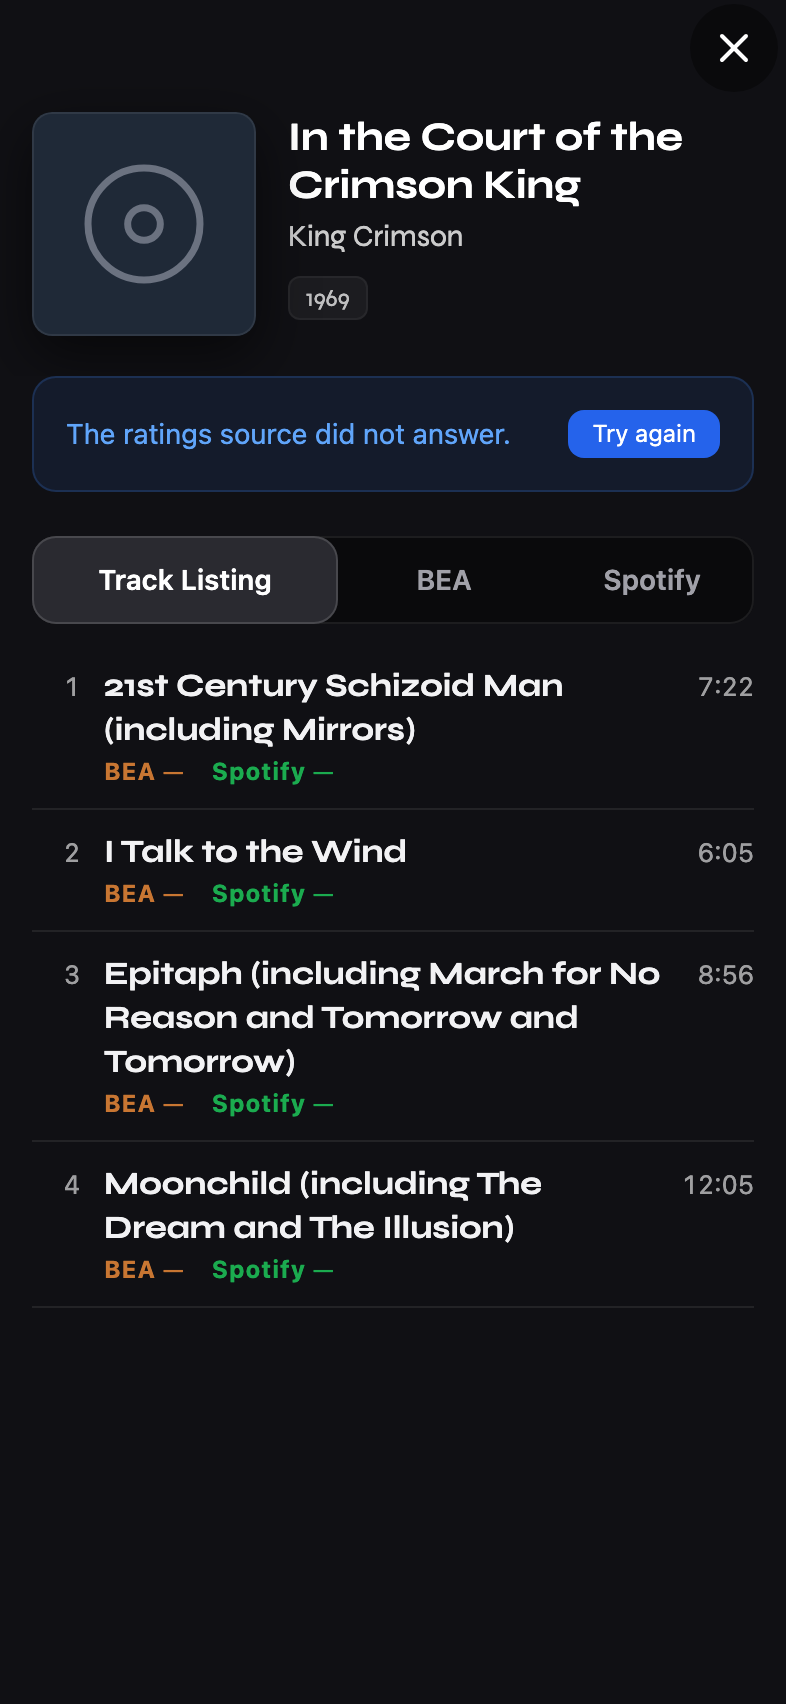
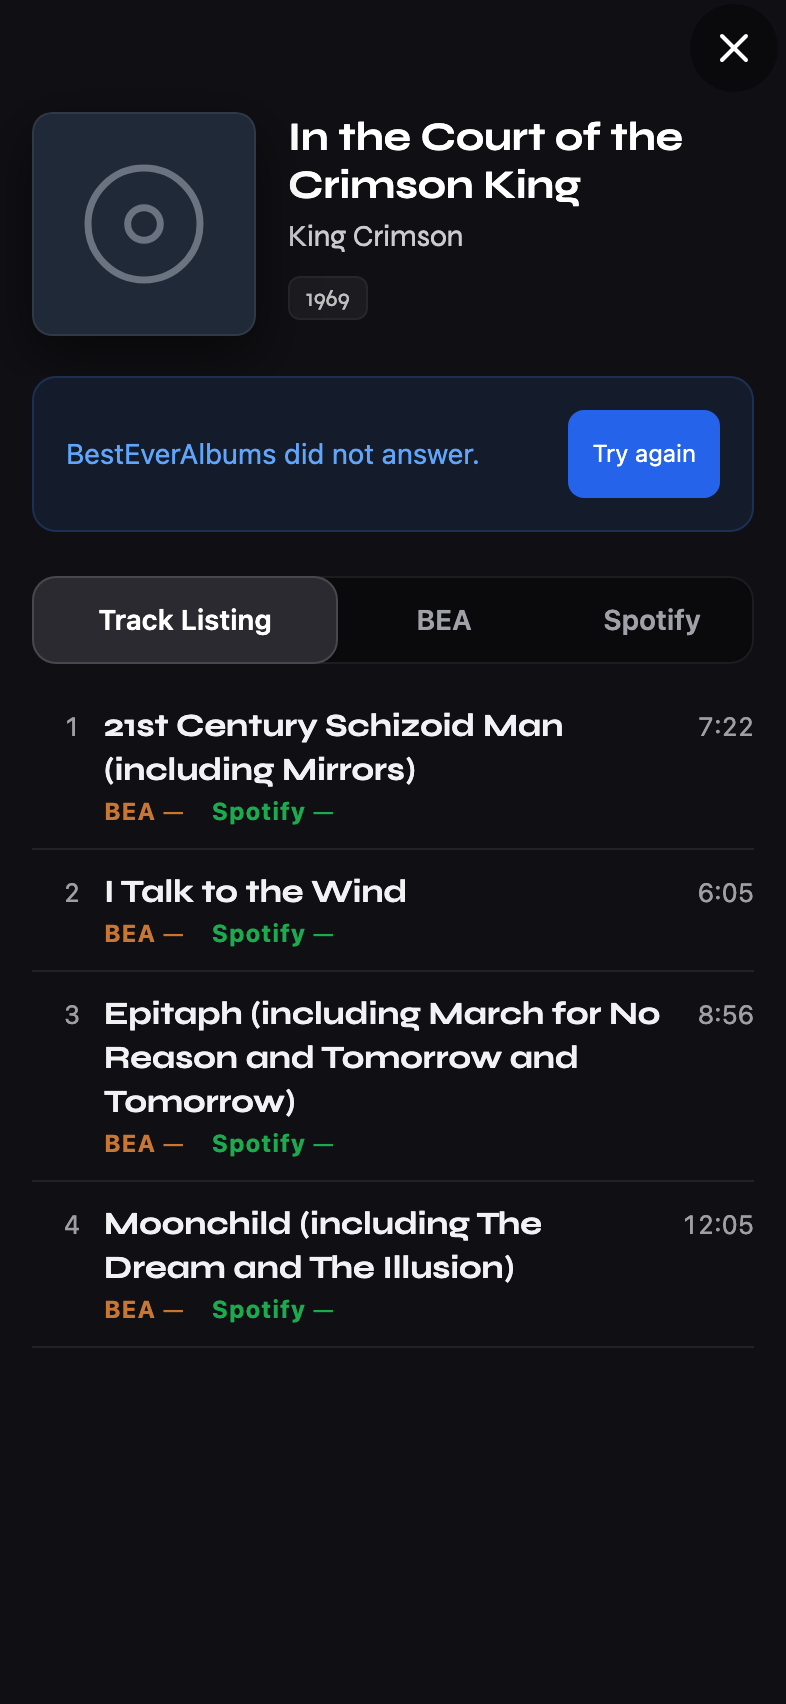
fix: 44 px Try again on the phone, BestEverAlbums named, asking line (F52, F69)

diff --git a/public/js/components/ranking/TracksRankingComparison.js b/public/js/components/ranking/TracksRankingComparison.js
@@ -171,33 +171,30 @@ export class TracksRankingComparison {
      */
     renderPopularityNotice() {
         const line = this.album.spotifyId ? null : describePopularity(this.popularity?.status)
+        return this.renderNotice('popularity-notice', line, this.popularity)
+    }
+
+    /** The line about the ratings: BestEverAlbums did not answer («Try again»), or is being asked (UAT-244). */
+    renderRatingsNotice() {
+        return this.renderNotice('ratings-notice', describeRatings(this.ratings?.status), this.ratings)
+    }
+
+    /** One line about one source: quiet when nothing is wrong, a box with «Try again» when it failed. */
+    renderNotice(name, line, source) {
         if (!line) return null
 
         const children = [SafeDOM.span({ className: line.quiet ? 'text-gray-400 text-sm' : 'text-blue-400 text-sm' }, line.text)]
-        if (line.action) children.push(this.renderAskButton(line.action))
+        if (line.action) children.push(this.renderAskButton(line.action, source))
 
         return SafeDOM.div({
-            className: `popularity-notice flex justify-between items-center mb-4 ${line.quiet ? 'px-1' : 'bg-blue-500/10 border border-blue-500/20 p-4 rounded-xl'}`
+            className: `${name} flex justify-between items-center mb-4 ${line.quiet ? 'px-1' : 'bg-blue-500/10 border border-blue-500/20 p-4 rounded-xl'}`
         }, children)
-    }
-
-    /** The line about the ratings that did not come: «did not answer» and «Try again» (UAT-244). */
-    renderRatingsNotice() {
-        const line = describeRatings(this.ratings?.status)
-        if (!line) return null
-
-        return SafeDOM.div({
-            className: 'ratings-notice flex justify-between items-center mb-4 bg-blue-500/10 border border-blue-500/20 p-4 rounded-xl'
-        }, [
-            SafeDOM.span({ className: 'text-blue-400 text-sm' }, line.text),
-            this.renderAskButton(line.action, this.ratings)
-        ])
     }
 
     /** The button that asks the album load for a source again; the load redraws the album. */
     renderAskButton(label, source = this.popularity) {
         const button = SafeDOM.button({
-            className: 'enrich-btn px-3 py-1 bg-blue-600 hover:bg-blue-500 text-white text-xs rounded-lg transition-colors',
+            className: 'enrich-btn min-h-[44px] min-w-[44px] md:min-h-0 md:min-w-0 px-3 py-1 bg-blue-600 hover:bg-blue-500 text-white text-xs rounded-lg transition-colors',
             textContent: label
         })
         button.onclick = () => {

diff --git a/public/js/models/ratingsState.js b/public/js/models/ratingsState.js
@@ -1,20 +1,28 @@
 /**
  * ratingsState (F52, UAT-244)
  *
- * The one line a screen shows about the ratings (the acclaim) of an album when the ratings source
- * did not answer, from the state the album load gives that source. A source that did not answer
- * is never read as "this album has no ratings". Pure: no store, no network, no screen.
+ * The one line a screen shows about the ratings (the acclaim) of an album when BestEverAlbums did
+ * not answer, from the state the album load gives that source; and, while the source is asked
+ * again, the line that says so. A source that did not answer is never read as "this album has no
+ * ratings". Pure: no store, no network, no screen.
  */
 
 import { EnrichmentStatus } from './albumLoadState.js'
 
-const FAILED_LINE = Object.freeze({ text: 'The ratings source did not answer.', action: 'Try again', quiet: false })
+const FAILED_LINE = Object.freeze({ text: 'BestEverAlbums did not answer.', action: 'Try again', quiet: false })
+const ASKING_LINE = Object.freeze({ text: 'Asking BestEverAlbums for ratings…', action: null, quiet: true })
+
+const LINES = Object.freeze({
+    [EnrichmentStatus.FAILED]: FAILED_LINE,
+    [EnrichmentStatus.PENDING]: ASKING_LINE,
+    [EnrichmentStatus.LOADING]: ASKING_LINE
+})
 
 /**
  * @param {string} status - the EnrichmentStatus of the ratings of the album
- * @returns {{ text: string, action: string, quiet: boolean } | null} null when there is nothing to
- *          say (the source answered, is still being asked, or nobody told the state)
+ * @returns {{ text: string, action: string|null, quiet: boolean } | null} null when there is
+ *          nothing to say (the source answered, or nobody told the state)
  */
 export function describeRatings(status) {
-    return status === EnrichmentStatus.FAILED ? FAILED_LINE : null
+    return LINES[status] || null
 }

diff --git a/docs/log.md b/docs/log.md
@@ -3,6 +3,10 @@
 > **Append-only.** Uma entrada por bloco de trabalho, mais recente no topo, com prefixo parseável: `## [AAAA-MM-DD HH:MM] <tipo> — título`. Tipos: `session`, `decision` (o conteúdo mora na página do assunto em `docs/wiki/`, seção `## History`), `ingest`, `inventory`, `harness-feedback`, `review` (uma passada de crítica, com o caminho do relatório). Hora de Brasília, sempre. Ninguém lê este arquivo inteiro — consulta-se por data ou `grep`. Aqui fica só o **quando**; o que é verdade mora na wiki, o estado no `MEMORY.md`.
 
 
+## [2026-11-21 13:55] session — achados do juiz tratados: «Try again» de 44 px no celular, BestEverAlbums nomeada, linha «Asking»
+**Branch:** wip/failed-sources-are-shown-2026-11-21
+P1-1: botão com min-h 44 px até o breakpoint md (computador segue 72x24; celular medido 76x44 a 393). P2-1: «BestEverAlbums did not answer.». P2-3: a nota mostra «Asking BestEverAlbums for ratings…» enquanto pergunta, como a popularidade. Azul mantido (P2-2, issue à parte). Novas capturas em F52/ e F69/.
+
 ## [2026-11-21 13:54] session — teste vermelho dos achados do juiz: alvo de 44 px, nome da fonte, linha «Asking»
 **Branch:** wip/failed-sources-are-shown-2026-11-21
 Quatro testes falham (F52/F69, UAT-244/245), cobrindo P1-1, P2-1 e P2-3 do relatório do juiz.
